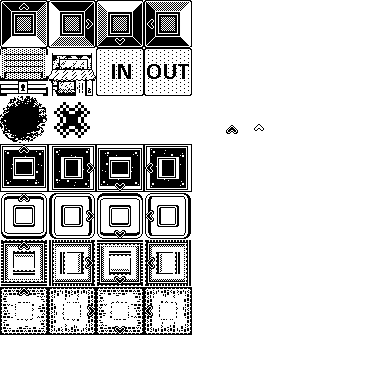
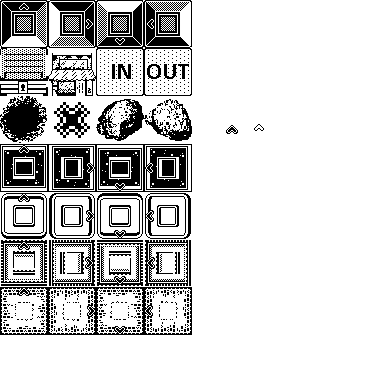
isCamouflaged implimentation

Changed region(s): [[0.25, 0.25, 0.5, 0.375]]

diff --git a/src/generate.c b/src/generate.c
@@ -182,8 +182,9 @@ void renderChunkBackgroundImage(struct Chunk_t* _chunk) {
     if (building->m_type != kNoBuilding && building->m_image[1]) {
       if (building->m_type >= kExtractor) {
         const bool invert = (building->m_type == kExtractor && building->m_subType.extractor == kCropHarvesterLarge);
+        const bool flip = (building->m_type == kSpecial && building->m_subType.special == kImportBox && building->m_dir != SN);
         pd->graphics->setDrawMode(invert ? kDrawModeInverted : kDrawModeCopy);
-        pd->graphics->drawBitmap(building->m_image[1], building->m_pix_x - off48_x, building->m_pix_y - off48_y, kBitmapUnflipped);
+        pd->graphics->drawBitmap(building->m_image[1], building->m_pix_x - off48_x, building->m_pix_y - off48_y, flip ? kBitmapFlippedX : kBitmapUnflipped);
         pd->graphics->setDrawMode(kDrawModeCopy);
         // If factory or farm - draw also what is produced
         if (building->m_type == kFactory) {
@@ -194,7 +195,7 @@ void renderChunkBackgroundImage(struct Chunk_t* _chunk) {
             building->m_pix_x - off16_x, building->m_pix_y - off16_y, kBitmapUnflipped);
         }
       } else {
-        // Fast conveyors get drawn inverted when zoomed out. Stored[0] is used to hold the speed
+        // Fast conveyors get drawn inverted. Stored[0] is used to hold the speed
         const bool invert = (building->m_type == kConveyor && building->m_stored[0] >= 2);
         pd->graphics->setDrawMode(invert ? kDrawModeInverted : kDrawModeCopy);
         pd->graphics->drawBitmap(building->m_image[1], building->m_pix_x - off16_x, building->m_pix_y - off16_y, kBitmapUnflipped);
@@ -815,11 +816,12 @@ void generate(uint32_t _actionProgress) {
 
     #define STARTX (TILES_PER_CHUNK_X/2)
 
+    // By setting EW, we camouflage these buildings in the early game
     newBuilding(getLocation_noCheck(STARTX + 0, TILES_PER_CHUNK_Y), SN, kSpecial, (union kSubType) {.special = kShop} );
     newBuilding(getLocation_noCheck(STARTX + 9, TILES_PER_CHUNK_Y), SN, kSpecial, (union kSubType) {.special = kSellBox} );
-    newBuilding(getLocation_noCheck(STARTX + 18, TILES_PER_CHUNK_Y), SN, kSpecial, (union kSubType) {.special = kWarp} );
-    newBuilding(getLocation_noCheck(STARTX + 27, TILES_PER_CHUNK_Y), SN, kSpecial, (union kSubType) {.special = kExportBox} );
-    newBuilding(getLocation_noCheck(STARTX + 36, TILES_PER_CHUNK_Y), SN, kSpecial, (union kSubType) {.special = kImportBox} );
+    newBuilding(getLocation_noCheck(STARTX + 18, TILES_PER_CHUNK_Y), EW, kSpecial, (union kSubType) {.special = kWarp} );
+    newBuilding(getLocation_noCheck(STARTX + 27, TILES_PER_CHUNK_Y), EW, kSpecial, (union kSubType) {.special = kExportBox} );
+    newBuilding(getLocation_noCheck(STARTX + 36, TILES_PER_CHUNK_Y), EW, kSpecial, (union kSubType) {.special = kImportBox} );
 
   } else if (_actionProgress == 8) {
 

diff --git a/src/buildings/special.c b/src/buildings/special.c
@@ -130,6 +130,10 @@ bool canBePlacedSpecial(struct Location_t* _loc, enum kDir _dir, union kSubType 
 void assignNeighborsSpecial(struct Building_t* _building) {
 }
 
+bool isCamouflaged() {
+  return m_warp->m_dir != SN;
+}
+
 void buildingSetupSpecial(struct Building_t* _building) {
   for (uint32_t zoom = 1; zoom < ZOOM_LEVELS; ++zoom) {
     switch (_building->m_subType.special) {
@@ -139,6 +143,16 @@ void buildingSetupSpecial(struct Building_t* _building) {
       case kImportBox:; _building->m_image[zoom] = getSprite48(3, 1, zoom); m_importBox = _building; break;
       case kWarp:;      _building->m_image[zoom] = getSprite48(0, 2, zoom); m_warp = _building; break;
       case kNSpecialSubTypes:;
+    }
+
+    // Start of the game?
+    if (_building->m_dir != SN) {
+      switch (_building->m_subType.special) {
+        case kExportBox:; _building->m_image[zoom] = getSprite48(3, 2, zoom); break;
+        case kImportBox:; _building->m_image[zoom] = getSprite48(2, 2, zoom); break;
+        case kWarp:;      _building->m_image[zoom] = getSprite48(2, 2, zoom); break;
+        default: break;
+      }
     }
 
     PDRect bound = {.x = (COLLISION_OFFSET_BIG/2)*zoom, .y = (COLLISION_OFFSET_BIG/2)*zoom, .width = (EXTRACTOR_PIX-COLLISION_OFFSET_BIG)*zoom, .height = (EXTRACTOR_PIX-COLLISION_OFFSET_BIG)*zoom};
@@ -157,6 +171,8 @@ void buildingSetupSpecial(struct Building_t* _building) {
 }
 
 void exportUpdateFn(struct Building_t* _building, uint8_t _tick) {
+  if (_building->m_dir != SN) return;
+
   // Pickup items 
   const int32_t min = -1, max =2;
   // Picking up
@@ -193,6 +209,7 @@ void exportUpdateFn(struct Building_t* _building, uint8_t _tick) {
 
 
 void importUpdateFn(struct Building_t* _building, uint8_t _tick) {
+  if (_building->m_dir != SN) return;
 
   struct Location_t* loc = NULL;
 

diff --git a/src/input.c b/src/input.c
@@ -129,12 +129,13 @@ void clickHandleWander(uint32_t _buttonPressed) {
   if (characterMoveInput(_buttonPressed)) { /*noop*/ }
   else if (kButtonA == _buttonPressed) {
     // 254: tutorial finised, 255: tutorial disabled
+    const bool ic = isCamouflaged();
     if (getTutorialStage() < TUTORIAL_FINISHED && checkReturnDismissTutorialMsg()) { /*noop*/ } // NOTE: The second function call has side-effects
     else if (distanceFromBuy() < ACTIVATE_DISTANCE) { if (!checkShowNew()) setGameMode(kMenuBuy); }
     else if (distanceFromSell() < ACTIVATE_DISTANCE) setGameMode(kMenuSell);
-    else if (distanceFromWarp() < ACTIVATE_DISTANCE) setGameMode(kMenuWarp);
-    else if (distanceFromOut() < ACTIVATE_DISTANCE) setGameMode(kMenuExport);
-    else if (distanceFromIn() < ACTIVATE_DISTANCE) setGameMode(kMenuImport);
+    else if (!ic && distanceFromWarp() < ACTIVATE_DISTANCE) setGameMode(kMenuWarp);
+    else if (!ic && distanceFromOut() < ACTIVATE_DISTANCE) setGameMode(kMenuExport);
+    else if (!ic && distanceFromIn() < ACTIVATE_DISTANCE) setGameMode(kMenuImport);
     else setGameMode(kMenuPlayer);
   } else if (kButtonB == _buttonPressed) {
     if (getTutorialStage() < TUTORIAL_FINISHED) checkReturnDismissTutorialMsg();

diff --git a/src/ui.c b/src/ui.c
@@ -226,11 +226,12 @@ void updateUI(int _fc) {
   if (m_mode == kWanderMode) {
     if (!m_UITopVisible) {
       if (_fc % (TICK_FREQUENCY/2) == 0) {
+        const bool ic = isCamouflaged();
         if      (distanceFromBuy()  < ACTIVATE_DISTANCE) drawUITop("The Shop");
         else if (distanceFromSell() < ACTIVATE_DISTANCE) drawUITop("Sales");
-        else if (distanceFromWarp() < ACTIVATE_DISTANCE) drawUITop("Plots");
-        else if (distanceFromOut() < ACTIVATE_DISTANCE) drawUITop("Exports");
-        else if (distanceFromIn() < ACTIVATE_DISTANCE) drawUITop("Imports");
+        else if (!ic && distanceFromWarp() < ACTIVATE_DISTANCE) drawUITop("Plots");
+        else if (!ic && distanceFromOut() < ACTIVATE_DISTANCE) drawUITop("Exports");
+        else if (!ic && distanceFromIn() < ACTIVATE_DISTANCE) drawUITop("Imports");
       }
     } else {
       if (distanceFromBuy() >= ACTIVATE_DISTANCE && 

diff --git a/src/building.c b/src/building.c
@@ -140,9 +140,9 @@ const char* toStringBuilding(enum kBuildingType _type, union kSubType _subType, 
     case kSpecial: switch (_subType.special) {
       case kShop: return "The Shop";
       case kSellBox: return "Sell Box";
-      case kExportBox: return "Cargo Exporter";
-      case kImportBox: return "Cargo Importer";
-      case kWarp: return "Plot Manager";
+      case kExportBox: return isCamouflaged() ? "A Suspicious Rock" : "Cargo Exporter";
+      case kImportBox: return isCamouflaged() ? "A Suspicious Rock" : "Cargo Importer";
+      case kWarp: return isCamouflaged() ? "A Suspicious Rock" : "Plot Manager";
       case kNSpecialSubTypes: return "";
     }
     case kNBuildingTypes: return "";

diff --git a/src/building.h b/src/building.h
@@ -97,7 +97,7 @@ struct Building_t{
   // Populated at construct
   enum kBuildingType m_type;
   union kSubType m_subType;
-  enum kDir m_dir; // Direction
+  enum kDir m_dir; // Direction. For special: Non-SN is camouflaged.
   uint16_t m_pix_x; // Note: centre
   uint16_t m_pix_y;
   int16_t m_progress; // Counts towards the location's progress

diff --git a/src/buildings/special.h b/src/buildings/special.h
@@ -27,3 +27,5 @@ void resetExport(void);
 struct Building_t* getImportBox(void);
 
 void drawUIInspectSpecial(struct Building_t* _building);
+
+bool isCamouflaged(void); 
